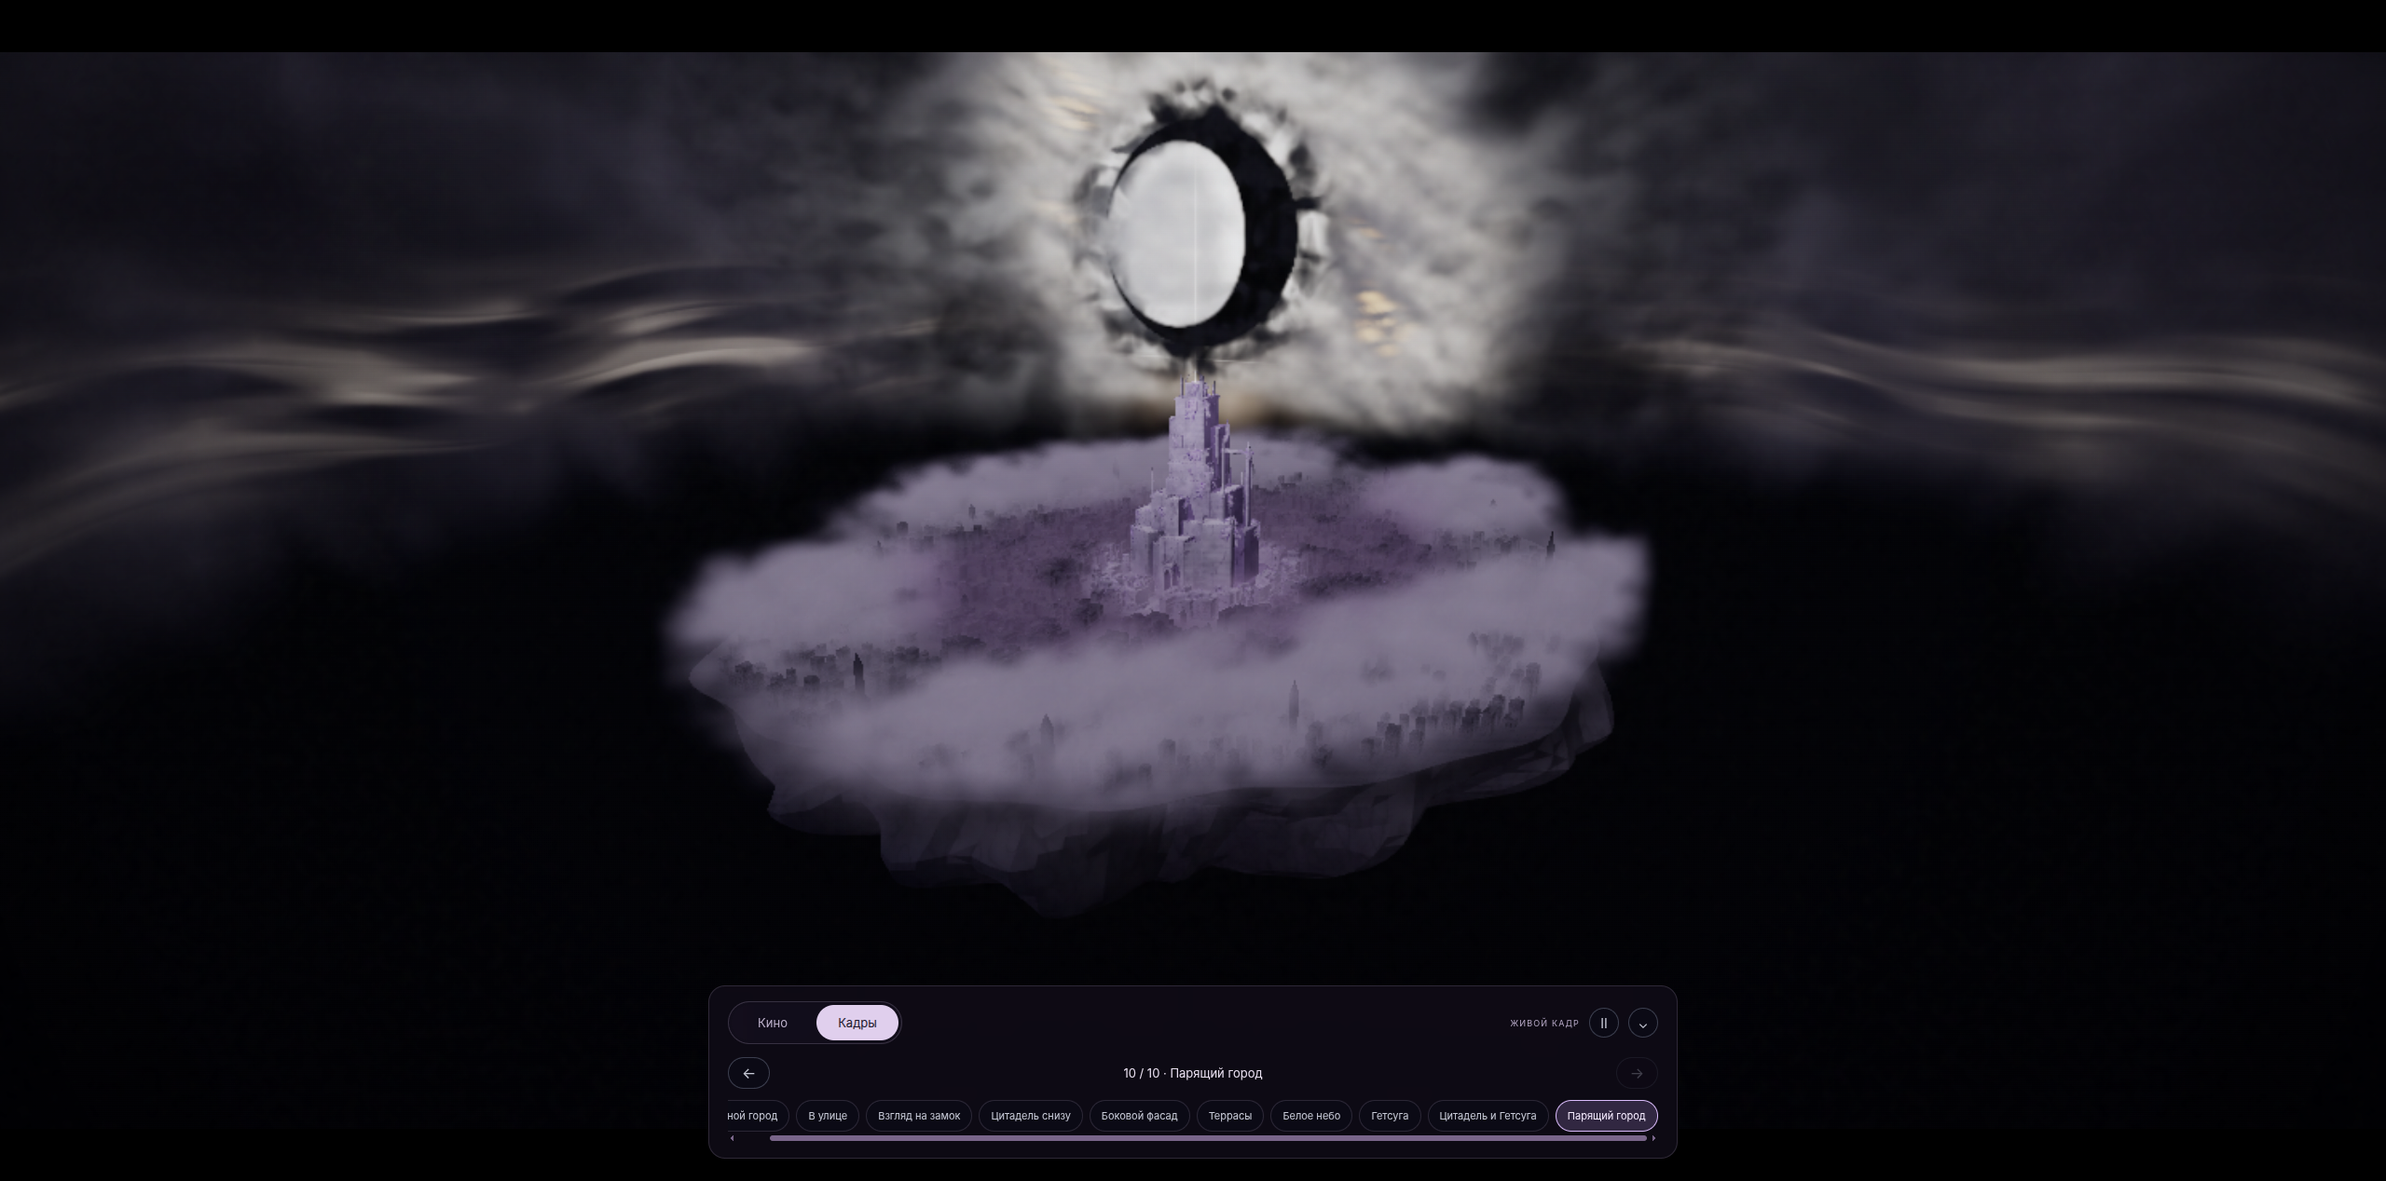
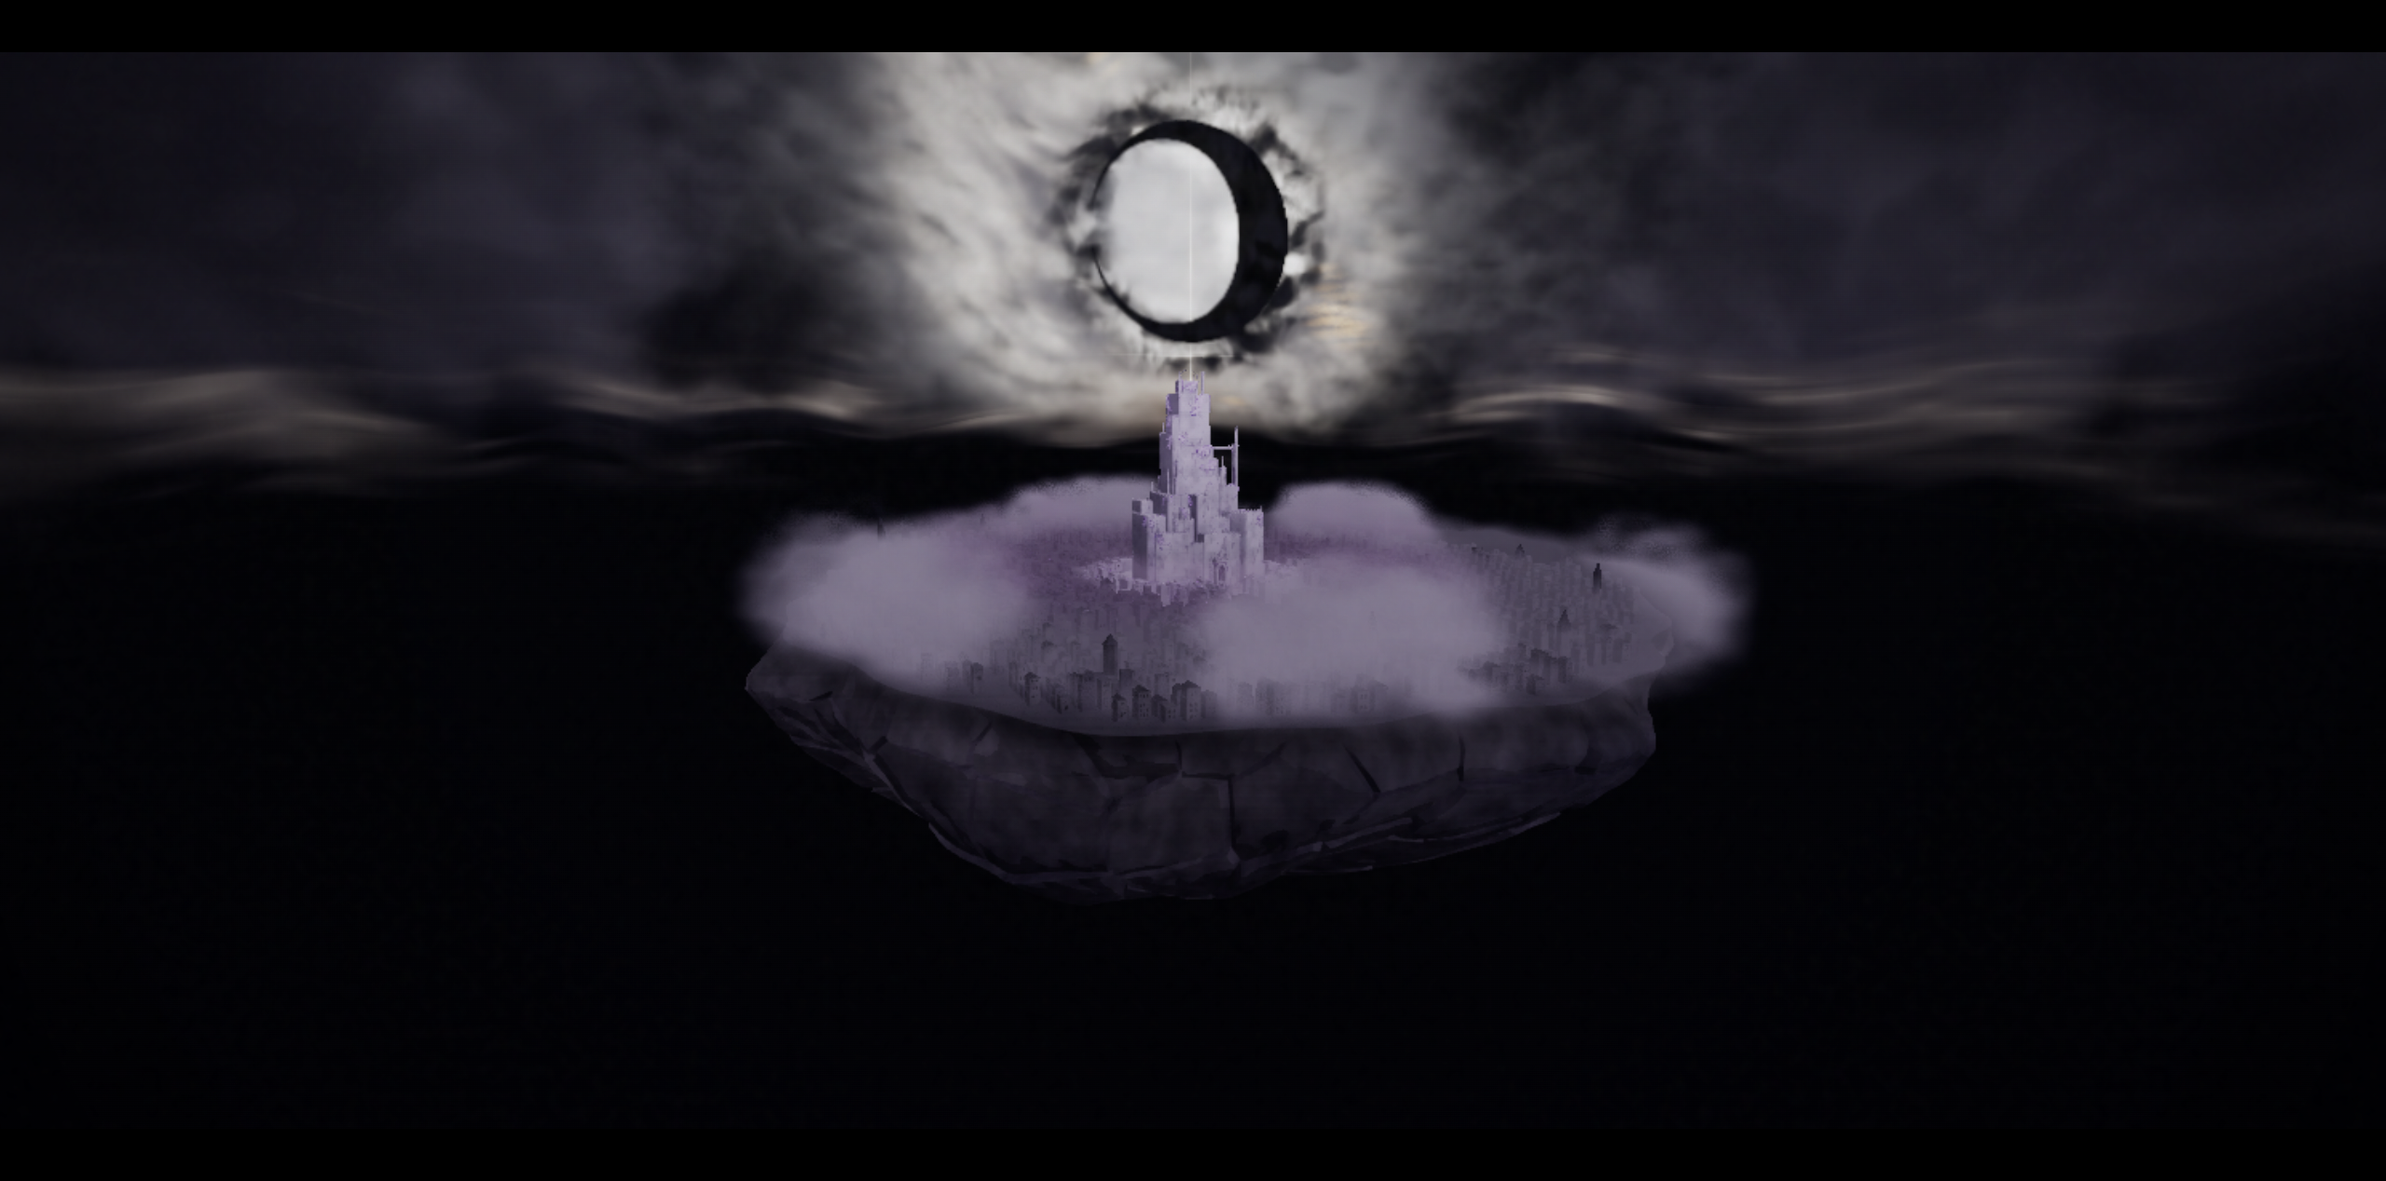
Improve floating island fracture geometry and mineral surface

diff --git a/src/scene/floatingIsland.ts b/src/scene/floatingIsland.ts
@@ -1,85 +1,152 @@
 import * as THREE from 'three/webgpu';
-import { mix, mx_noise_float, positionWorld, vec3 } from 'three/tsl';
-import { createWahrWeltFlatMaterial } from '../materials/wahrWeltCityMaterial';
+import { toCreasedNormals } from 'three/addons/utils/BufferGeometryUtils.js';
+import { createBedrockMaterial } from '../materials/bedrockMaterial';
 import { CITY_DECK_Y } from './constants';
 import { ISLAND_RADIUS_X, ISLAND_RADIUS_Z, ISLAND_BOTTOM_Y, islandCoastRadius } from './islandLayout';
 
-/** A single torn land mass: cliffs, overhanging shelves and off-centre roots.
- * Adjacent strata share vertices. The paving closes the same coast exactly. */
-export const createFloatingIsland = (deckMaterial: THREE.Material): THREE.Group => {
-  const group = new THREE.Group();
-  group.name = 'blockout-island';
-  const segments = 192;
-  const profile: number[][] = [];
-  for (let j = 0; j < 29; j++) {
-    const depth = j / 29;
-    profile.push([CITY_DECK_Y + (ISLAND_BOTTOM_Y - CITY_DECK_Y) * depth,
-      Math.pow(1 - Math.pow(depth, 1.65), .69)]);
-  }
-  const positions: number[] = [], indices: number[] = [];
-  for (let j = 0; j < profile.length; j++) {
-    const [height, radius] = profile[j]!;
-    const depth = (CITY_DECK_Y - height!) / (CITY_DECK_Y - ISLAND_BOTTOM_Y);
-    for (let i = 0; i < segments; i++) {
-      const angle = i / segments * Math.PI * 2;
-      // Faults continue down several strata; the shelves are not concentric
-      // rings. A broad buttress and broken opposing face give unequal weight.
-      const fault = Math.sin(angle * 11 + .45 * depth) * .053
-        + Math.sin(angle * 23 - depth) * .029
-        + Math.sin(angle * 5 + depth * 1.7) * .085
-        + Math.sin(angle * 41 + depth * 4) * .013
-        + Math.sin(angle * 17 - depth * 11) * .015;
-      const r = radius! * (islandCoastRadius(angle) + fault * Math.min(1, depth * 7));
-      const y = height! + (j === 0 ? 0 : Math.sin(angle * 5 + .4) * 38
-        + Math.cos(angle * 13 + depth * 4) * 16) * Math.sin(Math.PI * depth);
-      positions.push(Math.cos(angle) * ISLAND_RADIUS_X * r - depth * 94,
-        y, Math.sin(angle) * ISLAND_RADIUS_Z * r + depth * 61);
-      if (j > 0) {
-        const a = (j - 1) * segments + i, b = (j - 1) * segments + (i + 1) % segments;
-        const c = j * segments + i, d = j * segments + (i + 1) % segments;
-        if ((i + j) % 2) indices.push(a, b, c, b, d, c);
-        else indices.push(a, b, d, a, d, c);
-      }
+type Point = { u: number; v: number };
+type Site = Point & { seed: number };
+const COLUMNS = 41, ROWS = 4.6, V_SCALE = .82;
+const hash = (x: number, y: number, seed: number): number => {
+  const n = Math.sin(x * 127.1 + y * 311.7 + seed * 91.3) * 43758.5453;
+  return n - Math.floor(n);
+};
+
+/** Clip in the surface's unwrapped coordinates. Shared edges become actual
+ * mesh edges; rasterising a fracture onto a rectangular grid makes sawteeth. */
+const clip = (polygon: Point[], a: number, b: number, c: number): Point[] => {
+  const result: Point[] = [];
+  for (let i = 0; i < polygon.length; i++) {
+    const p = polygon[i]!, q = polygon[(i + 1) % polygon.length]!;
+    const dp = a * p.u + b * p.v - c, dq = a * q.u + b * q.v - c;
+    if (dp <= 1e-10) result.push(p);
+    if ((dp < 0 && dq > 0) || (dp > 0 && dq < 0)) {
+      const t = dp / (dp - dq);
+      result.push({ u: p.u + (q.u - p.u) * t, v: p.v + (q.v - p.v) * t });
     }
   }
-  const bottom = positions.length / 3;
-  positions.push(-94, ISLAND_BOTTOM_Y, 61);
-  for (let i = 0; i < segments; i++) {
-    indices.push((profile.length - 1) * segments + i,
-      (profile.length - 1) * segments + (i + 1) % segments, bottom);
+  return result;
+};
+
+/** A closed land mass with unequal fracture plates. The cell boundary is a
+ * recessed joint, its inset is the broken face; both share exact edge vertices.
+ * Macro coast and roots retain the existing island composition. */
+export const createFloatingIsland = (deckMaterial: THREE.Material): THREE.Group => {
+  const group = new THREE.Group(); group.name = 'blockout-island';
+  const sites: Site[] = [];
+  for (let row = -2; row <= 8; row++) for (let column = -2; column <= COLUMNS + 1; column++) {
+    const wrapped = (column % COLUMNS + COLUMNS) % COLUMNS;
+    if (hash(wrapped, row, 7) < .24) continue;
+    sites.push({ u: column - .07 + hash(wrapped, row, 1) * 1.14,
+      v: row - .07 + hash(wrapped, row, 2) * 1.14,
+      seed: hash(wrapped, row, 3) });
+  }
+  const positions: number[] = [], colors: number[] = [], topEdge = new Map<number, Point>();
+  const va = new THREE.Vector3(), vb = new THREE.Vector3(), vc = new THREE.Vector3();
+  const edge1 = new THREE.Vector3(), edge2 = new THREE.Vector3();
+  const world = (p: Point, relief: number, target: THREE.Vector3): THREE.Vector3 => {
+    const angle = (Math.abs(p.u - COLUMNS) < 1e-9 ? 0 : p.u) / COLUMNS * Math.PI * 2, depth = THREE.MathUtils.clamp(p.v / ROWS, 0, 1);
+    if (depth > 1 - 1e-10) return target.set(-94, ISLAND_BOTTOM_Y, 61);
+    const radius = Math.pow(1 - Math.pow(depth, 1.65), .69);
+    const fault = Math.sin(angle * 11 + .45 * depth) * .036
+      + Math.sin(angle * 5 + depth * 1.7) * .08;
+    const r = radius * (islandCoastRadius(angle) + fault * Math.min(1, depth * 7));
+    const fade = THREE.MathUtils.smoothstep(depth, 0, .11)
+      * (1 - THREE.MathUtils.smoothstep(depth, .88, 1));
+    const displacement = relief * fade * Math.pow(radius, .6);
+    const y = CITY_DECK_Y + (ISLAND_BOTTOM_Y - CITY_DECK_Y) * depth
+      + (Math.sin(angle * 5 + .4) * 32 + Math.cos(angle * 13 + depth * 4) * 12) * Math.sin(Math.PI * depth);
+    return target.set(Math.cos(angle) * (ISLAND_RADIUS_X * r + displacement) - depth * 94,
+      y, Math.sin(angle) * (ISLAND_RADIUS_Z * r + displacement) + depth * 61);
+  };
+  const emit = (a: Point, b: Point, c: Point, relief: readonly number[], tone: readonly number[]) => {
+    world(a, relief[0]!, va); world(b, relief[1]!, vb); world(c, relief[2]!, vc);
+    if (edge1.subVectors(vb, va).cross(edge2.subVectors(vc, va)).lengthSq() < 1e-10) return;
+    positions.push(...va.toArray(), ...vb.toArray(), ...vc.toArray());
+    for (const value of tone) colors.push(value, value, value);
+  };
+  let plateCount = 0;
+  for (const site of sites) {
+    if (site.u < -1.5 || site.u > COLUMNS + 1.5 || site.v < -1.5 || site.v > ROWS + 1.5) continue;
+    let polygon: Point[] = [{ u: 0, v: 0 }, { u: COLUMNS, v: 0 },
+      { u: COLUMNS, v: ROWS }, { u: 0, v: ROWS }];
+    for (const other of sites) {
+      if (other === site) continue;
+      const a = other.u - site.u, b = (other.v - site.v) * V_SCALE * V_SCALE;
+      const c = (other.u * other.u - site.u * site.u
+        + (other.v * other.v - site.v * site.v) * V_SCALE * V_SCALE) * .5;
+      polygon = clip(polygon, a, b, c);
+      if (polygon.length < 3) break;
+    }
+    polygon = polygon.filter((p, i) => {
+      const previous = polygon[(i + polygon.length - 1) % polygon.length]!;
+      return Math.hypot(p.u - previous.u, p.v - previous.v) > 1e-8;
+    });
+    if (polygon.length < 3) continue;
+    // Centroid stays inside cells clipped at coast/root and at the periodic seam.
+    const centre = polygon.reduce((p, q) => ({ u: p.u + q.u / polygon.length, v: p.v + q.v / polygon.length }), { u: 0, v: 0 });
+    const boundary: Point[] = [];
+    for (let i = 0; i < polygon.length; i++) {
+      const a = polygon[i]!, b = polygon[(i + 1) % polygon.length]!;
+      const length = Math.hypot((b.u - a.u) * 165, (b.v - a.v) * 88);
+      // Split root-bound edges: distinct curved paths must not collapse into
+      // the same straight chord when the bottom rim converges to one point.
+      const steps = Math.max(2, Math.ceil(Math.round(length * 1e6) / 1e6 / 22));
+      for (let j = 0; j < steps; j++) {
+        const t = j / steps, p = { u: a.u + (b.u - a.u) * t, v: a.v + (b.v - a.v) * t };
+        boundary.push(p);
+        if (Math.abs(p.v) < 1e-7) topEdge.set(Math.round(p.u * 1e7), { u: p.u, v: 0 });
+      }
+    }
+    const inset = .055 + site.seed * .065;
+    const inner = boundary.map(p => ({ u: p.u + (centre.u - p.u) * inset,
+      v: p.v + (centre.v - p.v) * inset }));
+    const faceRelief = (p: Point) => 6 + site.seed * 17
+      + (p.u - centre.u) * (site.seed - .35) * 21
+      + (p.v - centre.v) * (site.seed - .65) * 12
+      + Math.sin(p.u * 13 + p.v * 5 + site.seed * 9) * 1.8
+      + Math.sin(p.u * 6 - p.v * 8 + site.seed * 13) * 2.8;
+    const faceTone = .88 + site.seed * .10;
+    for (let i = 0; i < boundary.length; i++) {
+      const j = (i + 1) % boundary.length;
+      const a = boundary[i]!, b = boundary[j]!, ia = inner[i]!, ib = inner[j]!;
+      emit(a, b, ib, [-5, -5, faceRelief(ib)], [.87, .87, faceTone]);
+      emit(a, ib, ia, [-5, faceRelief(ib), faceRelief(ia)], [.87, faceTone, faceTone]);
+      // Nested rings sample the curved rock under each face, avoiding a giant
+      // triangle fan whose diagonals would show through the surface shading.
+      const along = (p: Point, t: number): Point => ({
+        u: p.u + (centre.u - p.u) * t, v: p.v + (centre.v - p.v) * t,
+      });
+      const face = (a: Point, b: Point, c: Point) => emit(a, b, c,
+        [faceRelief(a), faceRelief(b), faceRelief(c)], [faceTone, faceTone, faceTone]);
+      for (let ring = 0; ring < 4; ring++) {
+        const a = along(ia, ring / 4), b = along(ib, ring / 4);
+        const c = along(ib, (ring + 1) / 4), d = along(ia, (ring + 1) / 4);
+        face(a, b, c); if (ring < 3) face(a, c, d);
+      }
+    }
+    plateCount++;
   }
   const geometry = new THREE.BufferGeometry();
   geometry.setAttribute('position', new THREE.Float32BufferAttribute(positions, 3));
-  geometry.setIndex(indices);
-  const facets = geometry.toNonIndexed();
-  geometry.dispose();
-  facets.computeVertexNormals();
-  const material = createWahrWeltFlatMaterial(0xffffff);
-  material.name = 'fractured-island-bedrock';
-  // Geological seams have world scale, unlike the architectural masonry.
-  // Wide planes carry the shape; small variation stays quiet in a wide shot.
-  const p = positionWorld;
-  const mineral = mx_noise_float(p.mul(vec3(.022, .015, .022))).mul(.14);
-  const grain = mx_noise_float(p.mul(.15)).mul(.045);
-  const fissure = mx_noise_float(p.mul(vec3(.05, .009, .05))).abs()
-    .smoothstep(.025, .11);
-  const depthTone = p.y.smoothstep(ISLAND_BOTTOM_Y, CITY_DECK_Y).mul(.23).add(.28);
-  material.colorNode = mix(vec3(.17, .168, .18), vec3(.60, .575, .625),
-    depthTone.add(mineral).add(grain)).mul(fissure.mul(.19).add(.81));
-  const rock = new THREE.Mesh(facets, material);
-  rock.name = 'floating-island-connected-bedrock';
+  geometry.setAttribute('color', new THREE.Float32BufferAttribute(colors, 3));
+  const facets = toCreasedNormals(geometry, Math.PI * .25);
+  const rock = new THREE.Mesh(facets, createBedrockMaterial());
+  rock.name = 'floating-island-connected-bedrock'; rock.userData.fracturePlates = plateCount;
   group.add(rock);
 
-  const topPositions = positions.slice(0, segments * 3);
+  const coast = [...topEdge.values()].sort((a, b) => a.u - b.u);
+  // u=0 and u=COLUMNS are one closed seam; retain just one endpoint.
+  const uniqueCoast = coast.filter(p => p.u < COLUMNS - 1e-7);
+  const topPositions: number[] = [], topIndices: number[] = [];
+  for (const p of uniqueCoast) topPositions.push(...world(p, 0, va).toArray());
+  const centreIndex = topPositions.length / 3;
   topPositions.push(0, CITY_DECK_Y, 0);
-  const topIndices: number[] = [];
-  for (let i = 0; i < segments; i++) topIndices.push(segments, (i + 1) % segments, i);
+  for (let i = 0; i < centreIndex; i++) topIndices.push(centreIndex, (i + 1) % centreIndex, i);
   const topGeometry = new THREE.BufferGeometry();
   topGeometry.setAttribute('position', new THREE.Float32BufferAttribute(topPositions, 3));
-  topGeometry.setIndex(topIndices);
-  topGeometry.computeVertexNormals();
+  topGeometry.setIndex(topIndices); topGeometry.computeVertexNormals();
   const top = new THREE.Mesh(topGeometry, deckMaterial);
-  top.name = 'floating-island-paved-crown';
-  group.add(top);
+  top.name = 'floating-island-paved-crown'; group.add(top);
   return group;
 };

diff --git a/src/materials/bedrockMaterial.ts b/src/materials/bedrockMaterial.ts
@@ -1,0 +1,28 @@
+import { mix, mx_noise_float, normalView, positionView, positionWorld, vec3 } from 'three/tsl';
+import { createWahrWeltFlatMaterial } from './wahrWeltCityMaterial';
+
+/** Mineral variation and a world-space surface gradient, shared by the rock.
+ * Geometry owns the fractures. Grain only changes the light on their faces. */
+export const createBedrockMaterial = () => {
+  const material = createWahrWeltFlatMaterial(0xffffff);
+  material.name = 'fractured-island-bedrock';
+  material.vertexColors = true;
+  const p = positionWorld;
+  const mineral = mx_noise_float(p.mul(vec3(.019, .014, .017)));
+  const cleavage = mx_noise_float(p.mul(vec3(.046, .011, .038)));
+  const chips = mx_noise_float(p.mul(.095));
+  const grain = mx_noise_float(p.mul(.36));
+  const footprint = p.dFdx().length().max(p.dFdy().length());
+  const detail = footprint.smoothstep(1.8, 5.5).oneMinus();
+  const weathering = mineral.mul(.48).add(cleavage.mul(.28)).add(.52);
+  material.colorNode = mix(vec3(.19, .184, .20), vec3(.58, .55, .575), weathering)
+    .mul(chips.mul(.18).add(grain.mul(detail).mul(.065)).add(1));
+
+  const height = cleavage.mul(4.5).add(chips.mul(1.75)).add(grain.mul(detail).mul(.30));
+  const dx = positionView.dFdx(), dy = positionView.dFdy();
+  const r1 = dy.cross(normalView), r2 = normalView.cross(dx);
+  const determinant = dx.dot(r1);
+  const gradient = determinant.sign().mul(height.dFdx().mul(r1).add(height.dFdy().mul(r2)));
+  material.normalNode = determinant.abs().mul(normalView).sub(gradient).normalize();
+  return material;
+};

diff --git a/README.md b/README.md
@@ -15,7 +15,7 @@
 ## Что уже есть
 
 - Город с улицами, кварталами и лестницами; 1152 дополнительных здания и 12 башен на окраинах.
-- Цельное скальное основание с неровными плоскостями, разломами и минеральной фактурой.
+- Цельное скальное основание с объёмными разломами, неровными сколами и шероховатой минеральной фактурой.
 - Высокая цитадель с окружающими пристройками, небольшими проёмами, материалом камня и объёмными кристаллами.
 - Мягкое AO архитектуры, читаемые тени и локальная цветовая обработка.
 - Лунная материя, контурное свечение, узкий световой крест и несколько слоёв облаков.

diff --git a/docs/RELEASE.md b/docs/RELEASE.md
@@ -12,7 +12,8 @@
 окружающие пристройки и небольшие проёмы. На стенах и крышах читается
 минеральная фактура; кристаллы имеют объёмные грани. Вокруг прежнего города
 добавлены 1152 здания и 12 башен. Основание расширено примерно в 2.4 раза
-по площади и получило цельную скалу с разломами. Туман постепенно
+по площади и получило цельную скалу с объёмными разломами, вытянутыми
+сколами и шероховатой минеральной поверхностью. Туман постепенно
 открывает и скрывает дальние кварталы.
 
 Основной режим `?film=tour` длится 76 секунд: от ночной улицы до появления
